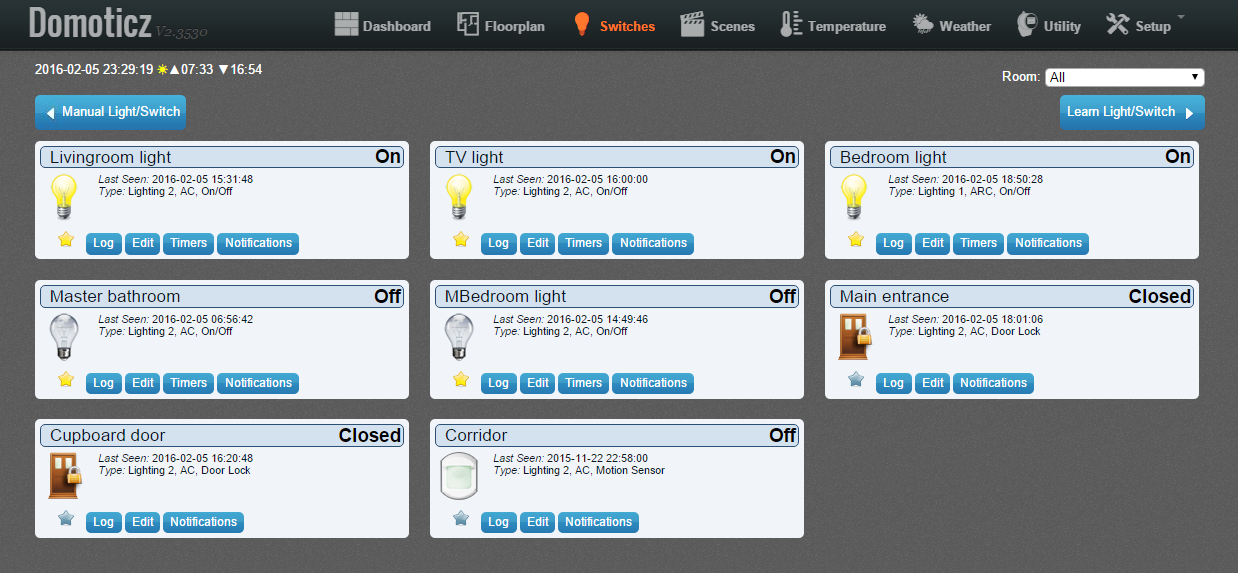
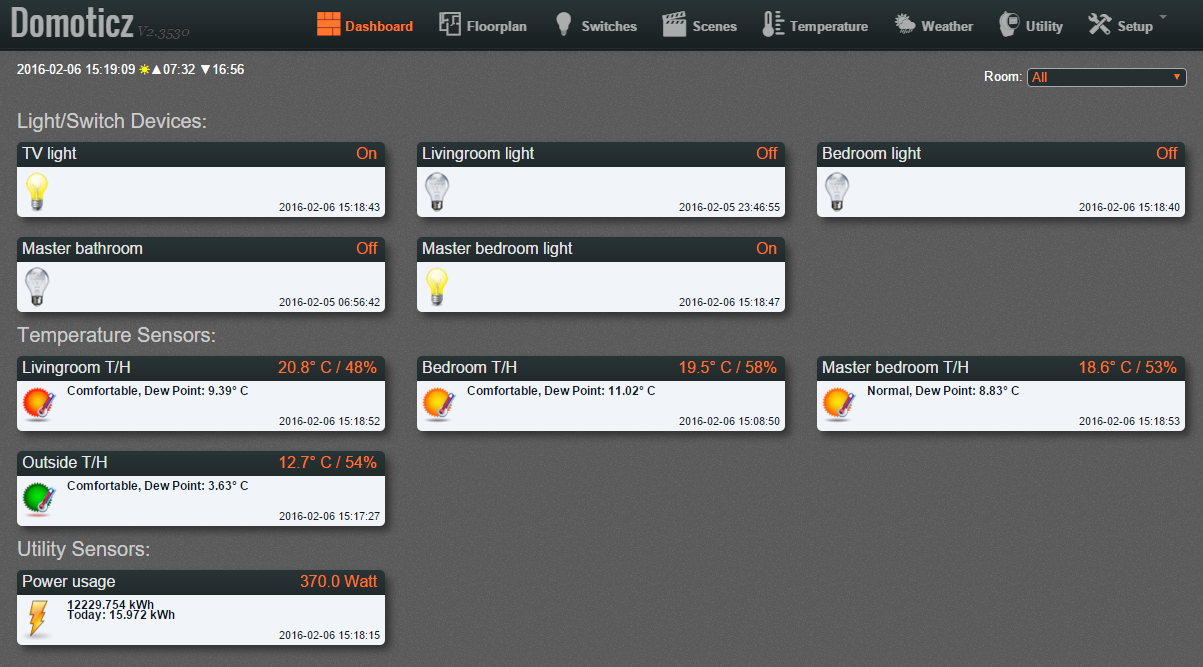
Domoticz Techie: dashboard view

diff --git a/themes/techie/custom.css b/themes/techie/custom.css
@@ -99,3 +99,61 @@ body {
         padding: 0 0 0 5px;
     }
 }
+
+
+
+/* #### Dashboard  #### */
+
+body table#itemtablesmall tbody tr {
+    box-shadow: 5px 5px 10px #333333;
+    border-radius: 10px 10px 5px 5px; /* remove white lines on top corners */
+    padding: 0 0 5px;
+    position: relative; /* to position the last TD on the bottom right */
+    height: 70px;
+    width: 100%;
+}
+body table#itemtablesmall tbody tr:after {
+    clear: both;
+}
+body table#itemtablesmall tr td:first-child {
+    background-image: url("images/bg_header.png");
+    background-repeat: repeat;
+    border: none;
+    border-radius: 5px 5px 0 0;
+    color: #e7e7e7;
+    padding: 3px 5px;
+    font-size: 120%;
+    cursor: pointer;
+}
+body table#itemtablesmall tr:hover td:first-child {
+    color: white;
+}
+body table#itemtablesmall tr td:first-child + td {
+    color: #FF772D;
+    font-weight: normal;
+    padding: 0 5px;
+    font-size: 120%;
+}
+body table#itemtablesmall tr td:first-child + td + td + td + td { /* last updated */
+    position: absolute;
+    bottom: 5px;
+    right: 5px;
+}
+body table#itemtablesmall tr td:first-child + td + td + td + td:before { /* last updated text */
+    display: none;
+}
+#comboroom {
+    background-color: #252F31;
+    color: #FF772D;
+}
+
+@media (min-width: 1200px) {
+    
+    .row .span4 {
+        margin-left: 32px;
+        width: 368px;
+    }
+    .span4:first-child {
+        margin-left: 16px;
+    }
+}
